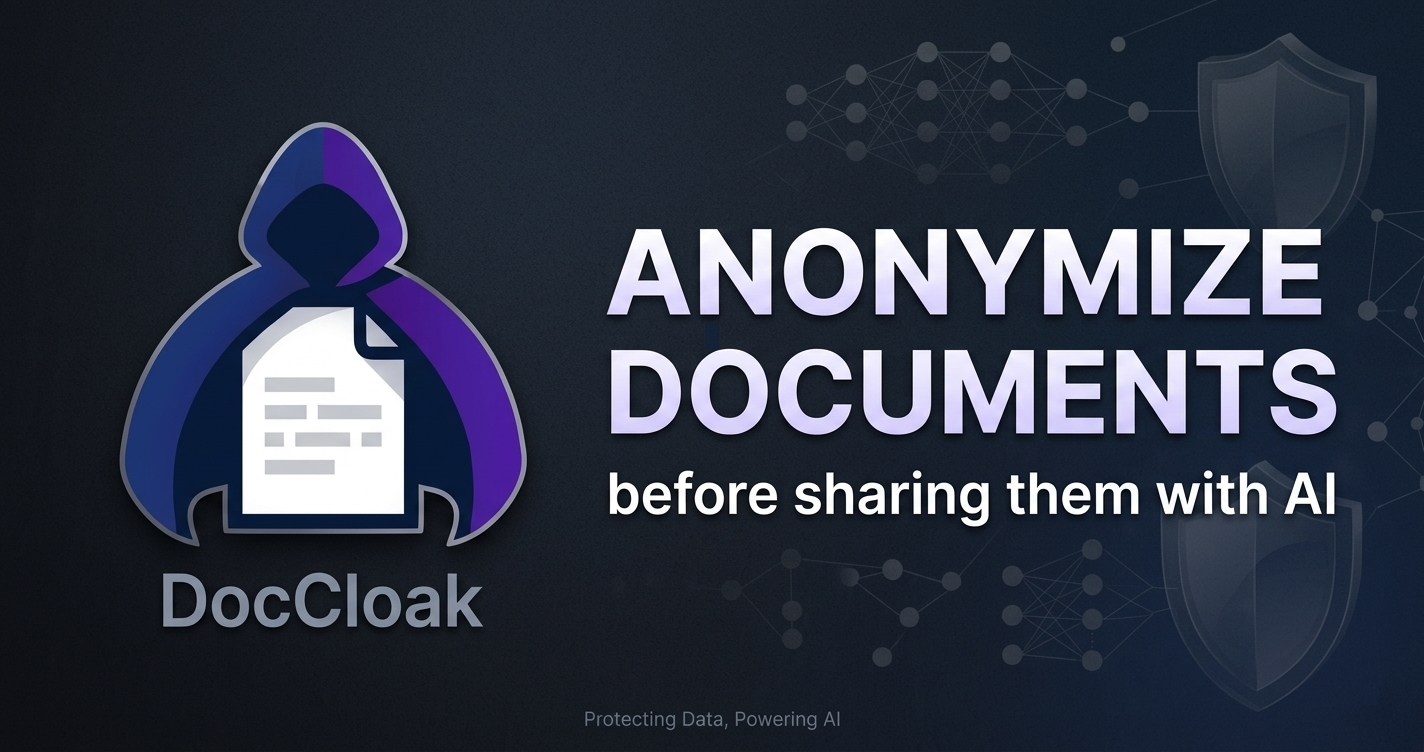
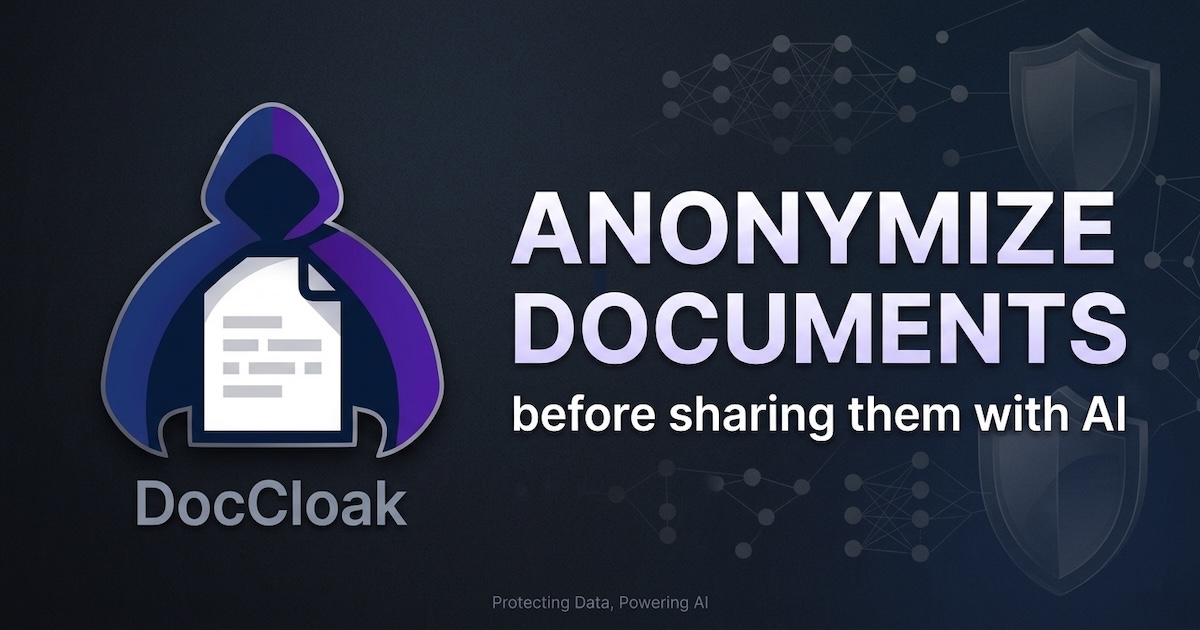
v0.4.8: refine OG title and resize social card
- Page title and og:title/twitter:title shortened and refocused on the
  core action: "Anonymize documents before AI. Open source." This sits
  in the 50–60 char optimal range, leads with an active verb, and adds
  the open-source trust signal at the end.
- public/og-image.jpg resized from 1424×752 to the spec-correct 1200×630
  and recompressed from 685 KB to 187 KB. The previous size exceeded
  WhatsApp's 600 KB cap and the dimension mismatch caused some
  validators to flag the card.

diff --git a/index.html b/index.html
@@ -3,26 +3,26 @@
   <head>
     <meta charset="UTF-8" />
     <meta name="viewport" content="width=device-width, initial-scale=1.0" />
-    <title>DocCloak — Use AI without leaking client data</title>
-    <meta name="description" content="Open-source, browser-only document anonymizer. Strip names, emails, phones, and other PII from documents before sharing them with ChatGPT, Claude, Gemini, and other AI services. Runs entirely in your browser — your data never leaves your device." />
+    <title>DocCloak - Anonymize documents before AI. Open source.</title>
+    <meta name="description" content="Open-source, browser-only document anonymizer. Strip names, emails, phones, and other PII from documents before sharing them with ChatGPT, Claude, Gemini, and other AI services. Runs entirely in your browser - your data never leaves your device." />
     <meta name="keywords" content="PII redaction, document anonymizer, GDPR, HIPAA, ChatGPT privacy, Claude privacy, local-first, browser-only, open source, AGPL" />
     <meta name="author" content="DocCloak" />
     <meta name="theme-color" content="#111111" />
 
     <!-- Open Graph -->
     <meta property="og:type" content="website" />
-    <meta property="og:title" content="DocCloak — Use AI without leaking client data" />
+    <meta property="og:title" content="DocCloak - Anonymize documents before AI. Open source." />
     <meta property="og:description" content="Open-source, browser-only document anonymizer. Strip PII before sharing documents with ChatGPT, Claude, or Gemini. Your data never leaves your browser." />
     <meta property="og:url" content="https://doccloak.com/" />
     <meta property="og:site_name" content="DocCloak" />
     <meta property="og:image" content="https://doccloak.com/og-image.jpg" />
     <meta property="og:image:width" content="1200" />
     <meta property="og:image:height" content="630" />
-    <meta property="og:image:alt" content="DocCloak — open-source browser-only PII redactor" />
+    <meta property="og:image:alt" content="DocCloak - open-source browser-only PII redactor" />
 
     <!-- Twitter Card -->
     <meta name="twitter:card" content="summary_large_image" />
-    <meta name="twitter:title" content="DocCloak — Use AI without leaking client data" />
+    <meta name="twitter:title" content="DocCloak - Anonymize documents before AI. Open source." />
     <meta name="twitter:description" content="Open-source, browser-only document anonymizer. Strip PII before sharing with AI. Your data never leaves your browser." />
     <meta name="twitter:image" content="https://doccloak.com/og-image.jpg" />
 
@@ -38,7 +38,7 @@
       "@context": "https://schema.org",
       "@type": "SoftwareApplication",
       "name": "DocCloak",
-      "description": "Open-source, browser-only document anonymizer that strips personally identifiable information (PII) from documents before they are shared with AI services such as ChatGPT, Claude, or Gemini. All processing happens locally in the browser via WebAssembly — no data is sent to any server.",
+      "description": "Open-source, browser-only document anonymizer that strips personally identifiable information (PII) from documents before they are shared with AI services such as ChatGPT, Claude, or Gemini. All processing happens locally in the browser via WebAssembly - no data is sent to any server.",
       "url": "https://doccloak.com/",
       "applicationCategory": "SecurityApplication",
       "operatingSystem": "Web Browser",
@@ -58,7 +58,7 @@
       "codeRepository": "https://github.com/WLojek/DocCloak",
       "featureList": [
         "Detects 12+ entity types: persons, emails, phones, SSNs, credit cards, addresses, companies",
-        "Runs entirely in the browser — no backend, no API, no telemetry",
+        "Runs entirely in the browser - no backend, no API, no telemetry",
         "Multiple ML models (GLiNER PII Edge, BardS.ai EU PII)",
         "Regex pattern detection for 17 regions (US + 16 European countries)",
         "Round-trip de-anonymization restores names in AI responses",
@@ -75,35 +75,35 @@
         <h1 style="font-size: 2rem; margin-bottom: 0.5rem;">DocCloak</h1>
         <p style="font-size: 1.25rem; color: #555; margin-top: 0;"><strong>Use AI without leaking client data.</strong></p>
 
-        <p>DocCloak is an open-source document anonymizer that strips personally identifiable information (PII) before you share documents with AI services — and restores the original names in the AI's response. Everything runs in your browser. No server, no API calls, no data leaves your machine.</p>
+        <p>DocCloak is an open-source document anonymizer that strips personally identifiable information (PII) before you share documents with AI services - and restores the original names in the AI's response. Everything runs in your browser. No server, no API calls, no data leaves your machine.</p>
 
         <p><strong>This page requires JavaScript to run.</strong> DocCloak performs all PII detection locally in your browser using WebAssembly, so JavaScript and a modern browser are required.</p>
 
         <h2>Who it's for</h2>
         <ul>
-          <li><strong>Lawyers and legal teams</strong> — redact client names from contracts before asking AI to review clauses</li>
-          <li><strong>Consultants</strong> — anonymize company data in reports before generating AI summaries</li>
-          <li><strong>Healthcare professionals</strong> — strip patient identifiers from notes before using AI for research</li>
-          <li><strong>HR departments</strong> — remove employee PII from documents before AI-assisted policy drafting</li>
+          <li><strong>Lawyers and legal teams</strong> - redact client names from contracts before asking AI to review clauses</li>
+          <li><strong>Consultants</strong> - anonymize company data in reports before generating AI summaries</li>
+          <li><strong>Healthcare professionals</strong> - strip patient identifiers from notes before using AI for research</li>
+          <li><strong>HR departments</strong> - remove employee PII from documents before AI-assisted policy drafting</li>
           <li><strong>Anyone</strong> who uses AI tools but handles sensitive data they can't afford to leak</li>
         </ul>
 
         <h2>How it works</h2>
         <ol>
           <li><strong>Paste</strong> your document or upload a .doc/.docx file</li>
-          <li><strong>Redact</strong> — DocCloak detects names, emails, phone numbers, addresses, and other PII using a local ML model and regex patterns</li>
-          <li><strong>Copy</strong> the anonymized text into any AI service (ChatGPT, Claude, Gemini, etc.) — or download the redacted document</li>
-          <li><strong>Restore</strong> — paste the AI's response back into DocCloak to replace placeholders with the original names</li>
+          <li><strong>Redact</strong> - DocCloak detects names, emails, phone numbers, addresses, and other PII using a local ML model and regex patterns</li>
+          <li><strong>Copy</strong> the anonymized text into any AI service (ChatGPT, Claude, Gemini, etc.) - or download the redacted document</li>
+          <li><strong>Restore</strong> - paste the AI's response back into DocCloak to replace placeholders with the original names</li>
         </ol>
 
         <h2>Features</h2>
         <ul>
-          <li>Runs locally — ML models run in-browser via ONNX Runtime WebAssembly, zero network requests during anonymization</li>
+          <li>Runs locally - ML models run in-browser via ONNX Runtime WebAssembly, zero network requests during anonymization</li>
           <li>12+ entity types: persons, emails, phones, SSNs, credit cards, dates, currencies, IP addresses, IBANs, addresses, companies, custom labels</li>
           <li>Supports .doc and .docx documents with all formatting preserved</li>
           <li>Regex pattern detection for 17 regions including the US and 16 European countries</li>
           <li>8 UI languages: English, Polish, German, French, Spanish, Portuguese, Swedish, Norwegian</li>
-          <li>Open source under AGPL-3.0 — every line of code is auditable on GitHub</li>
+          <li>Open source under AGPL-3.0 - every line of code is auditable on GitHub</li>
         </ul>
 
         <p><a href="https://github.com/WLojek/DocCloak">View source on GitHub</a></p>
